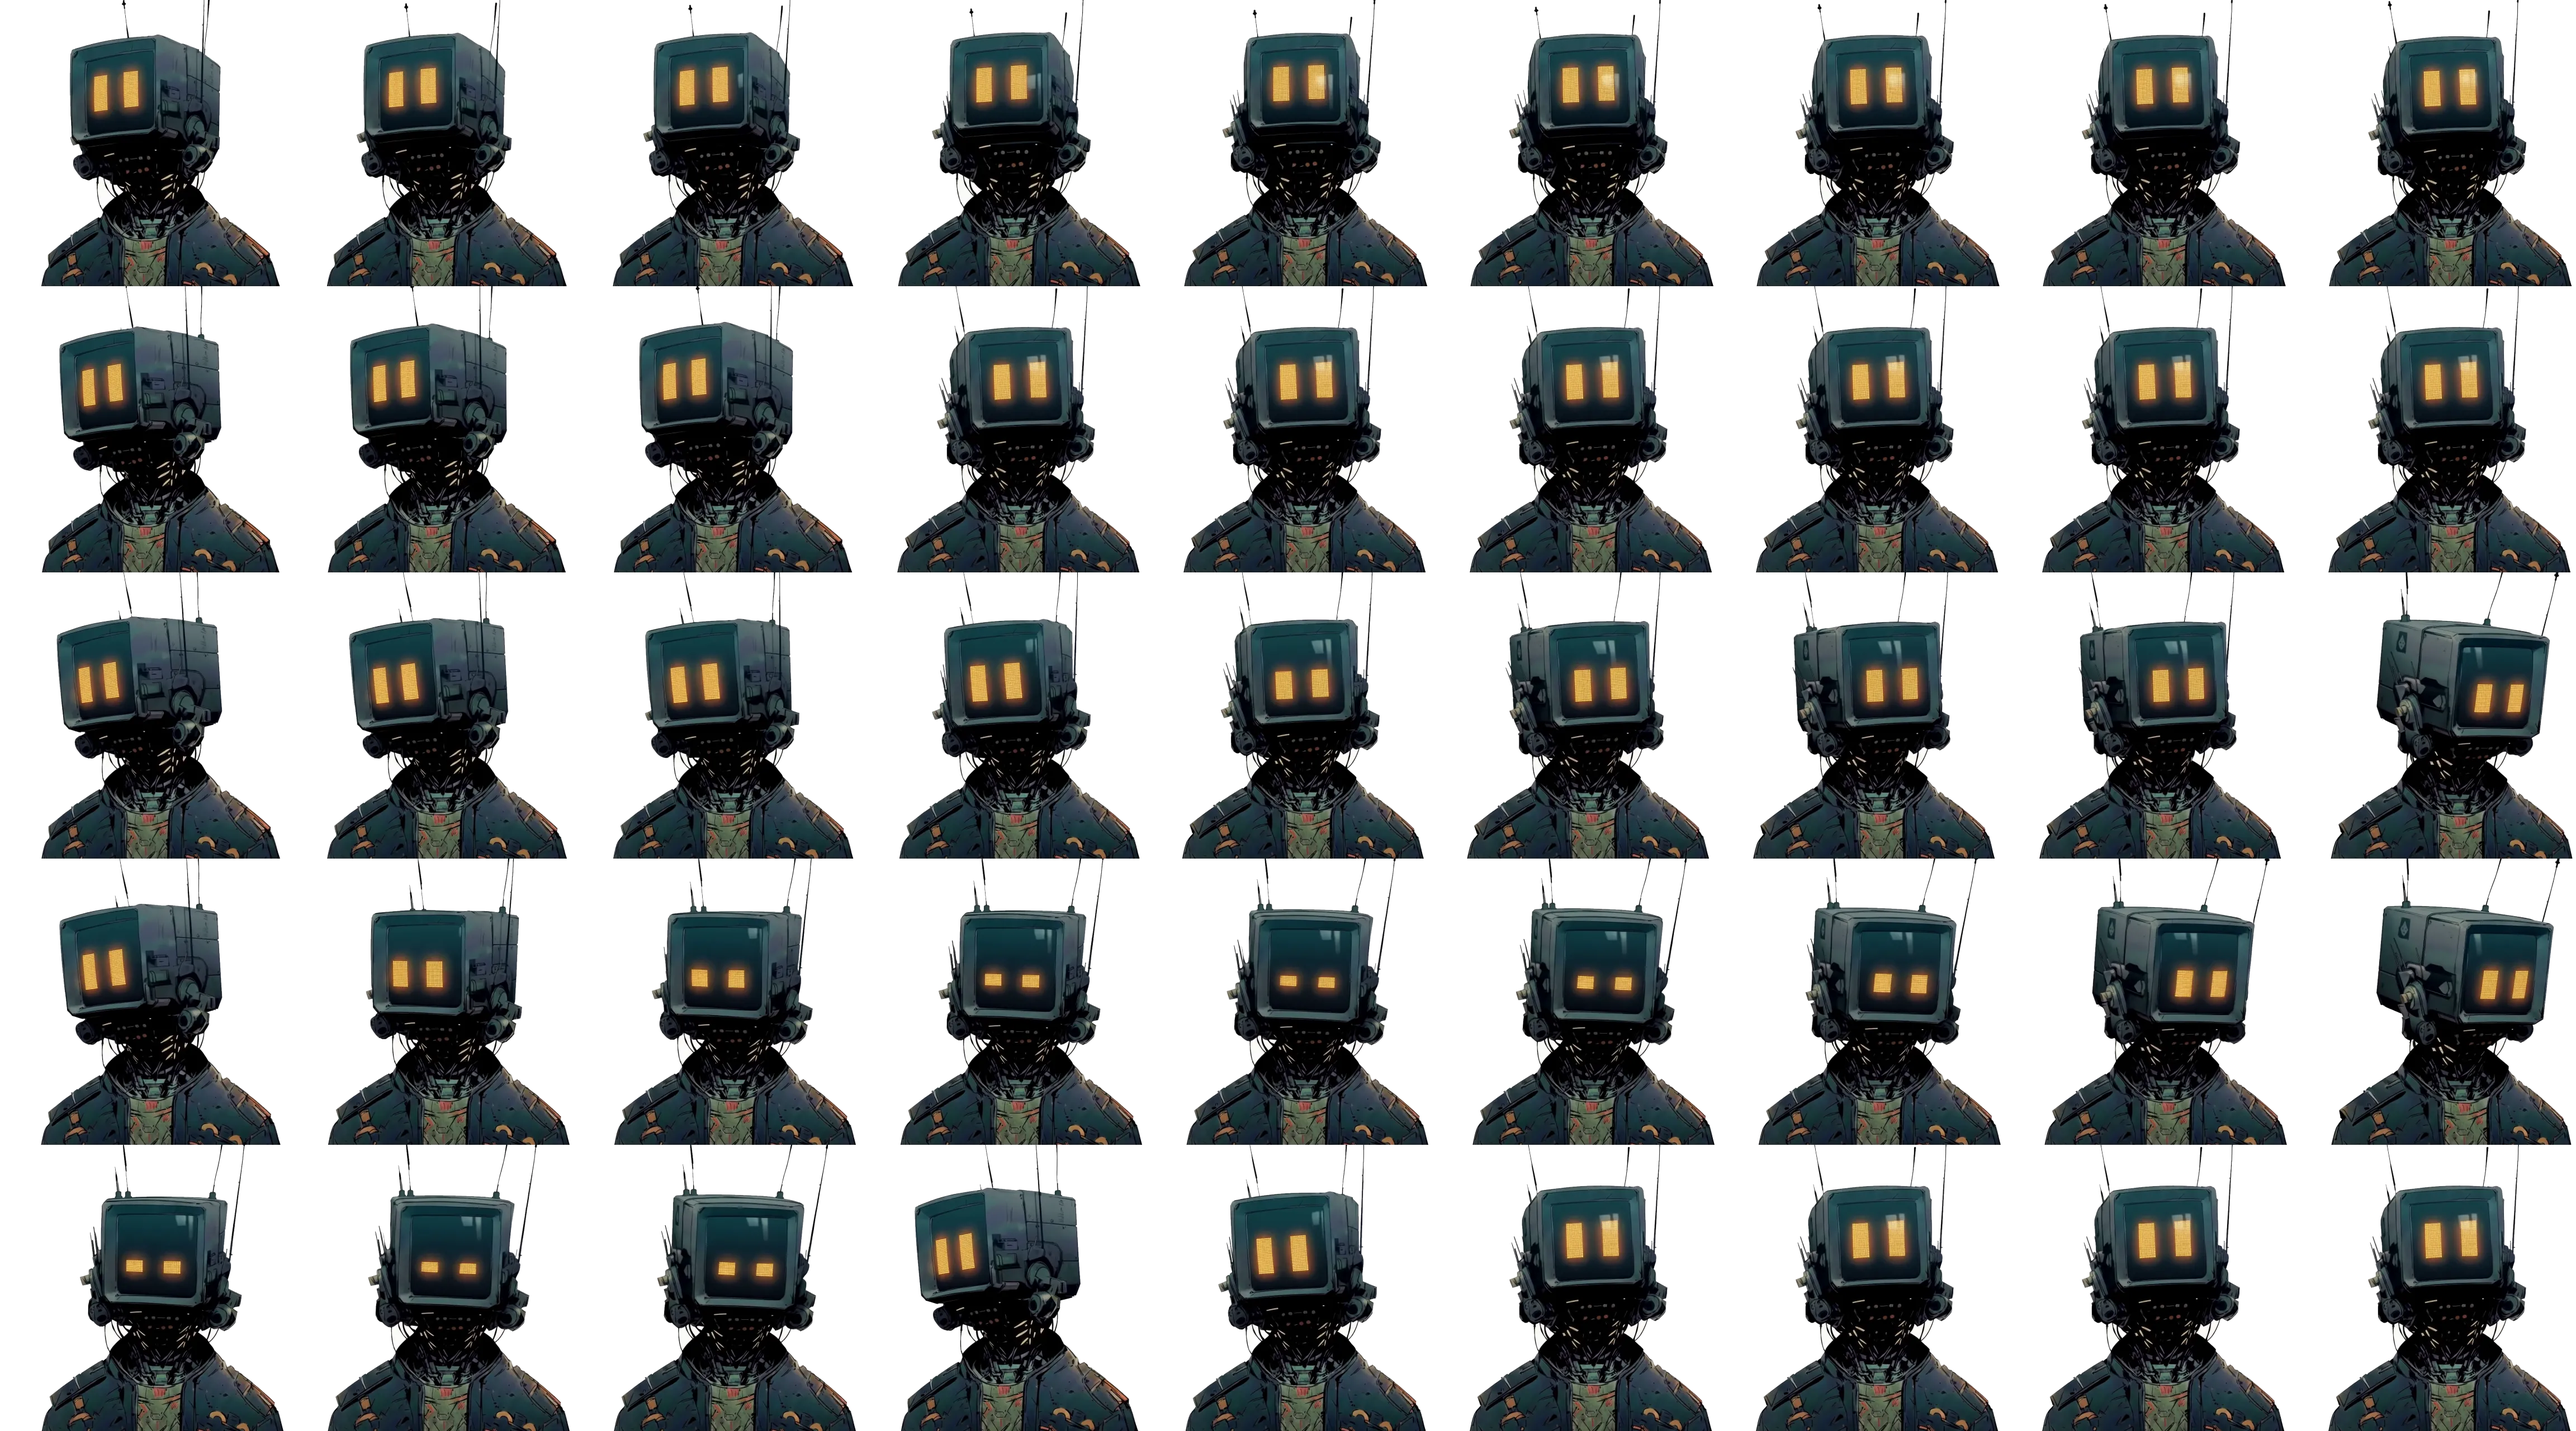
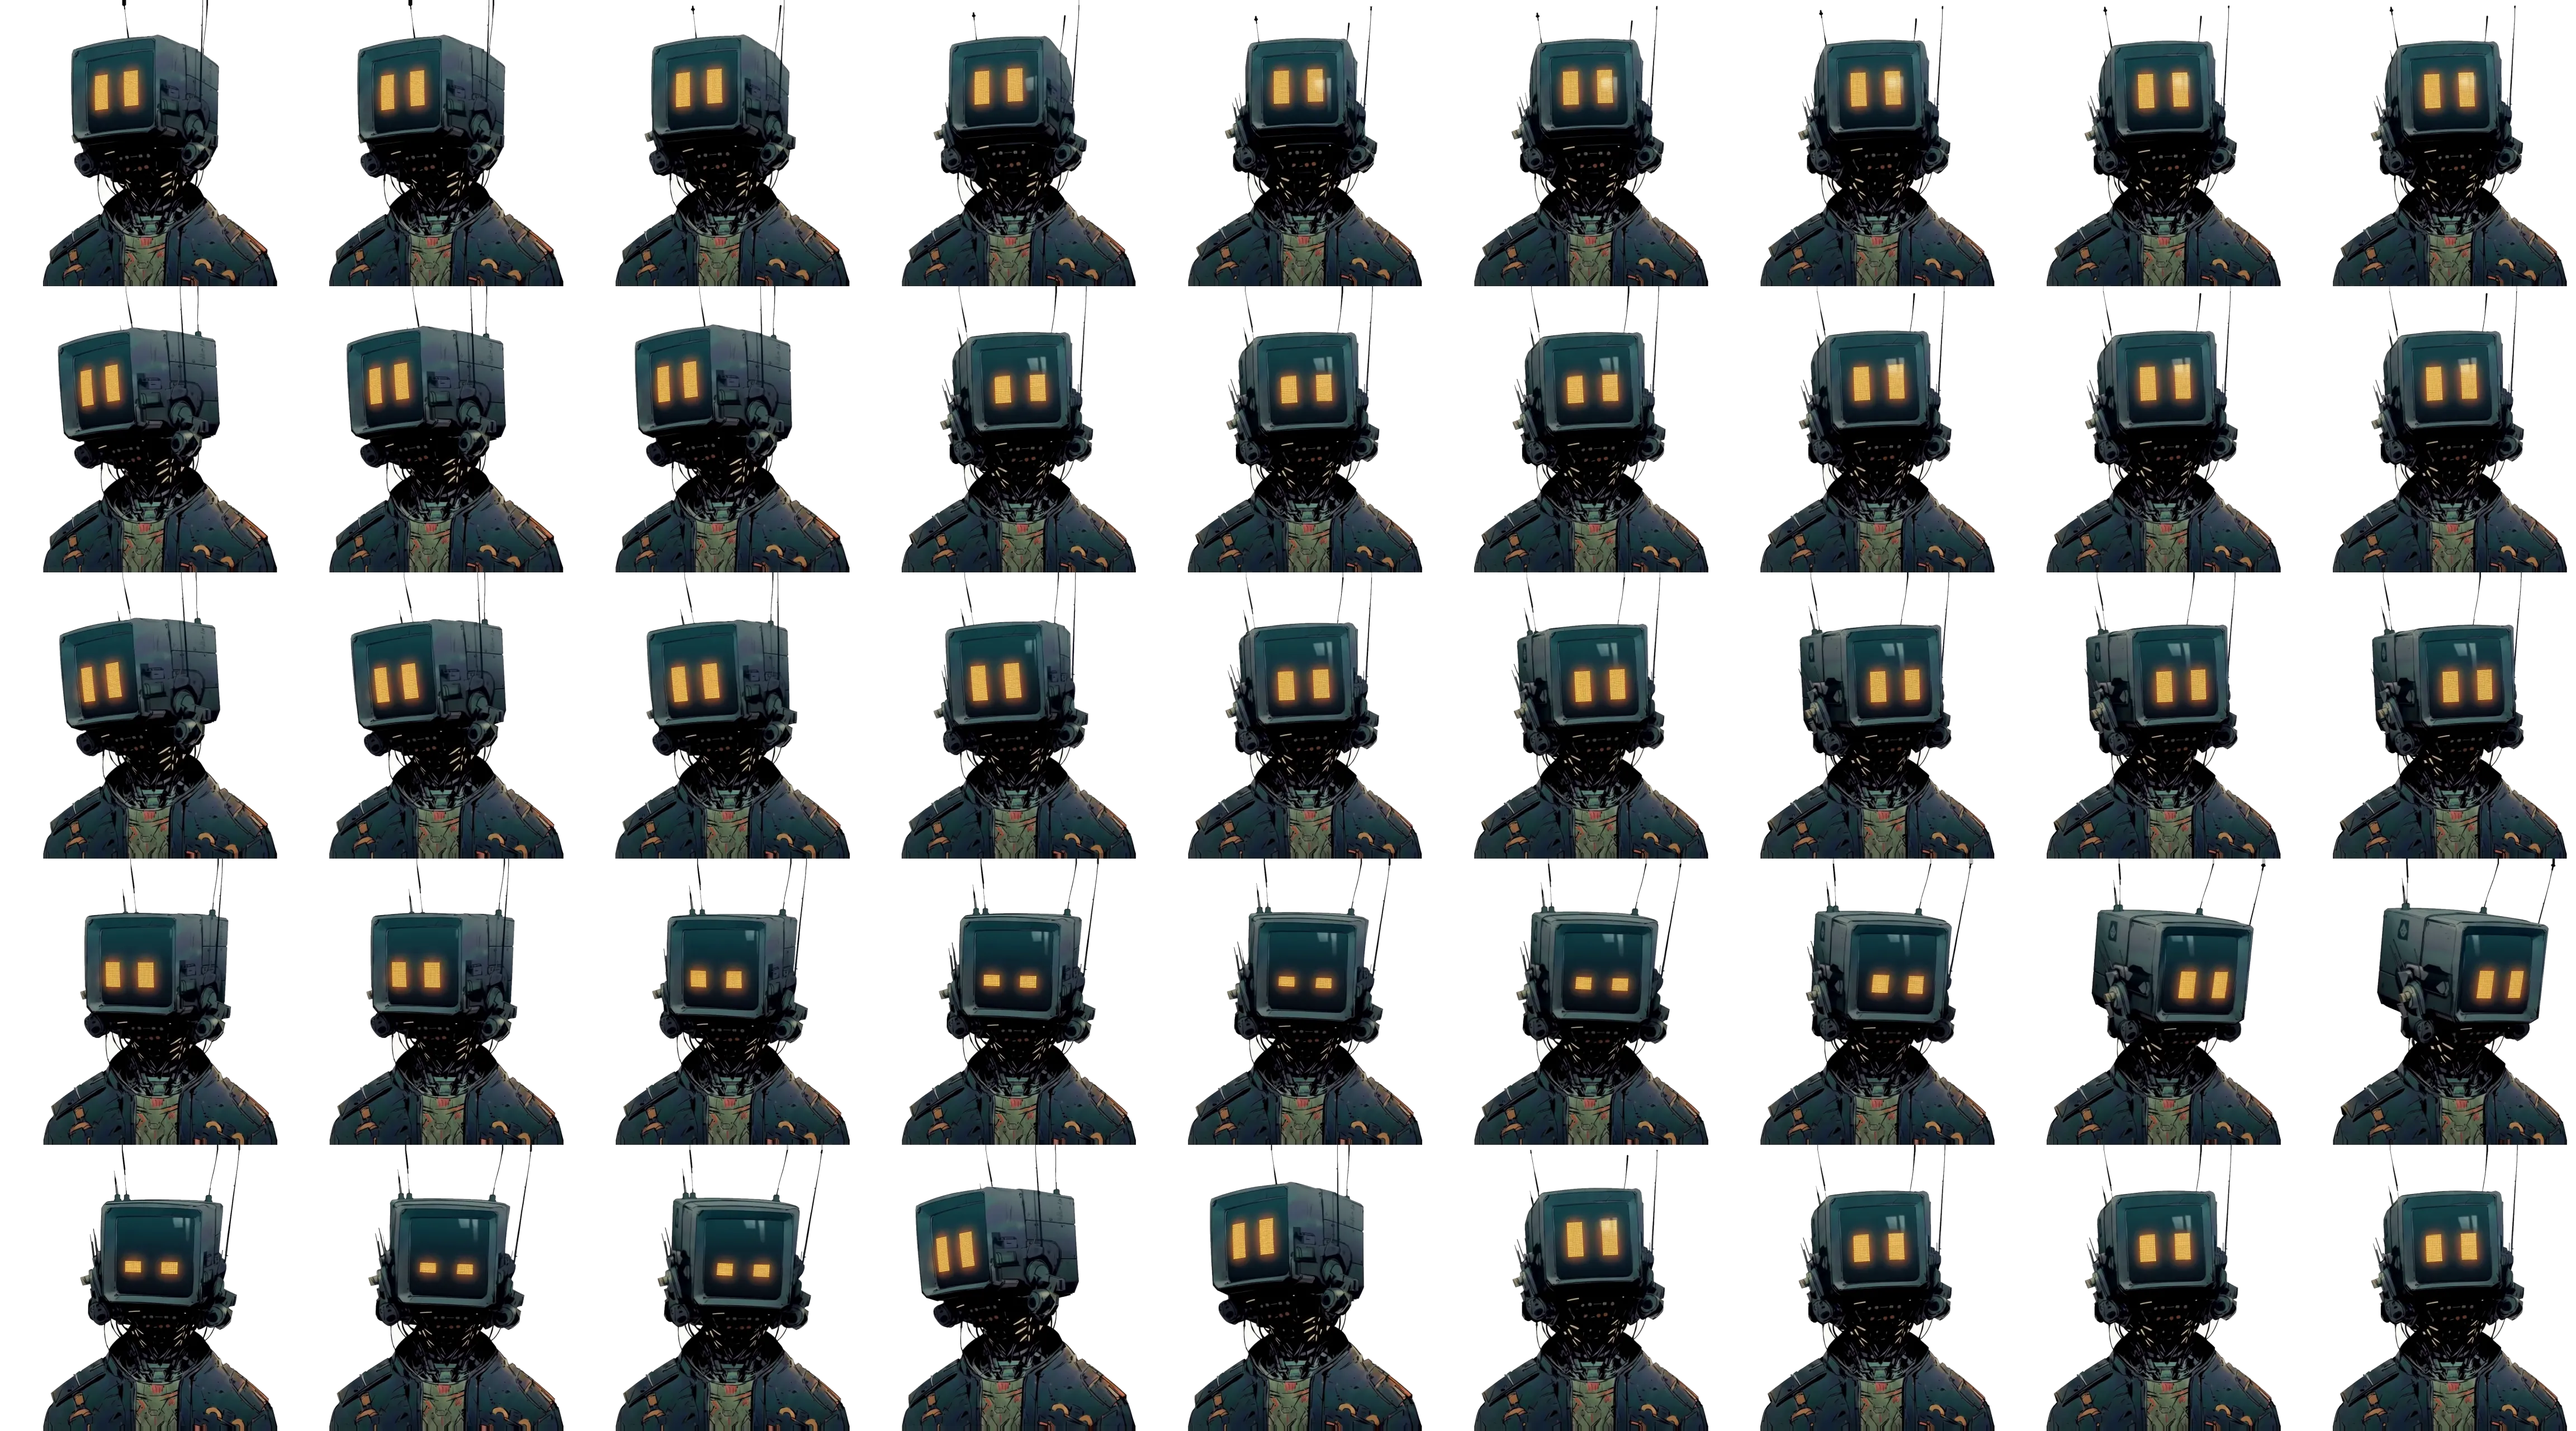
fix: gaze atlas bleed + body jumps — edge extrusion and torso stabilization
Two defects in the v2 atlas:
1. Stacked-frame slivers: at fractional element widths the browser's
   background scaling sampled the neighboring atlas cell. Cells now carry
   8px edge-extruded padding (content 496px inset, borders replicated
   outward) so any bleed samples the SAME frame's edges — invisible.
2. Body jumping between positions: the video's torso drifts 19px / 2.7%
   scale across segments. Every frame is now warped (translate + scale,
   anchored bottom-center so the bust stays flush) to the median torso —
   post-stabilization spread measured 2.2px across all selected frames.

scripts/build-gaze-atlas.py updated with both steps and re-run end to
end to produce the shipped atlas (979KB). Verified at 1493px viewport
(fractional 563.625px element) across six gaze positions: no bleed, no
body shift; tsc + eslint clean.

diff --git a/scripts/build-gaze-atlas.py b/scripts/build-gaze-atlas.py
@@ -5,13 +5,18 @@ Pipeline (run whenever the source video is re-generated):
   2. Key out the white background via border flood-fill (only background
      CONNECTED to the frame edge is removed, so interior white highlights
      survive; stray dust islands in the white are dropped by size).
+  2b. Stabilize the body: measure the torso band's centroid + width per
+     frame and warp (translate + scale, anchored bottom-center) to the
+     median — kills the body jumps between grid cells.
   3. Auto-map each frame's gaze by the eye-glow centroid (the eyes glow
      orange — HSV threshold, two largest components) and measure the glow
      height as a squint/wide metric.
   4. Fill a COLS x GAZE_ROWS grid with the nearest frame per cell in
      normalized gaze space, plus an expression row: 3 squints (lowest glow)
      and 3 wides (highest glow), spread across X.
-  5. Compose the atlas and write a webp with alpha.
+  5. Compose the atlas with 8px edge-extruded cell padding (bleed from
+     fractional-pixel background scaling samples the frame's own replicated
+     edges instead of the neighboring cell) and write a webp with alpha.
 
 Usage:  python scripts/build-gaze-atlas.py "design/assets/robot video/Robot Scanning Motion.mp4"
 Output: public/hero/robot-atlas-v2.webp (consumed by src/components/site/HeroGaze.tsx)
@@ -27,6 +32,7 @@ from PIL import Image
 
 COLS, GAZE_ROWS = 9, 4
 CELL = 512
+INSET = 8  # edge-extrusion padding per cell side
 OUT = os.path.join("public", "hero", "robot-atlas-v2.webp")
 
 
@@ -84,12 +90,39 @@ def main(video):
     cap.release()
     print(f"extracted {len(frames)} frames")
 
-    mapped = []
     rgba = []
-    for i, f in enumerate(frames):
-        g = gaze_of(f)
-        a = key_frame(f)
-        rgba.append(np.dstack([f, a]))
+    for f in frames:
+        rgba.append(np.dstack([f, key_frame(f)]))
+
+    # --- stabilize the body: torso-band centroid + width -> warp to median
+    H, W = rgba[0].shape[:2]
+    band_y0 = int(H * 0.854)
+    torso = []
+    for f in rgba:
+        ys_, xs_ = np.nonzero(f[band_y0:, :, 3] > 128)
+        torso.append(
+            (float(xs_.mean()), float(np.percentile(xs_, 95) - np.percentile(xs_, 5)))
+        )
+    ref_cx = float(np.median([t[0] for t in torso]))
+    ref_w = float(np.median([t[1] for t in torso]))
+    stab = []
+    for f, (cx, w) in zip(rgba, torso):
+        sc = ref_w / w
+        # scale + translate, anchored bottom-center so the bust stays flush
+        M = np.float32([[sc, 0, ref_cx - sc * cx], [0, sc, H - sc * H]])
+        stab.append(
+            cv2.warpAffine(
+                f, M, (W, H), flags=cv2.INTER_LINEAR,
+                borderMode=cv2.BORDER_CONSTANT, borderValue=(0, 0, 0, 0),
+            )
+        )
+    rgba = stab
+    print(f"stabilized to torso cx {ref_cx:.1f}, width {ref_w:.1f}")
+
+    # --- gaze-map the STABILIZED frames
+    mapped = []
+    for i, f in enumerate(rgba):
+        g = gaze_of(f[:, :, :3])
         if g:
             mapped.append((i, *g))
     print(f"gaze-mapped {len(mapped)}/{len(frames)}")
@@ -119,9 +152,20 @@ def main(video):
     print("expressions:", expr)
 
     atlas = np.zeros((CELL * (GAZE_ROWS + 1), CELL * COLS, 4), np.uint8)
+    content_px = CELL - 2 * INSET
 
     def put(fi, r, c):
-        cell = cv2.resize(rgba[fi], (CELL, CELL), interpolation=cv2.INTER_AREA)
+        content = cv2.resize(
+            rgba[fi], (content_px, content_px), interpolation=cv2.INTER_AREA
+        )
+        cell = np.zeros((CELL, CELL, 4), np.uint8)
+        cell[INSET : INSET + content_px, INSET : INSET + content_px] = content
+        # edge extrusion: replicate content borders outward so fractional-pixel
+        # background scaling bleeds into the SAME frame, never the neighbor
+        cell[:INSET, INSET : INSET + content_px] = content[0:1, :]
+        cell[INSET + content_px :, INSET : INSET + content_px] = content[-1:, :]
+        cell[:, :INSET] = cell[:, INSET : INSET + 1]
+        cell[:, INSET + content_px :] = cell[:, INSET + content_px - 1 : INSET + content_px]
         atlas[r * CELL : (r + 1) * CELL, c * CELL : (c + 1) * CELL] = cell
 
     for row in range(GAZE_ROWS):
